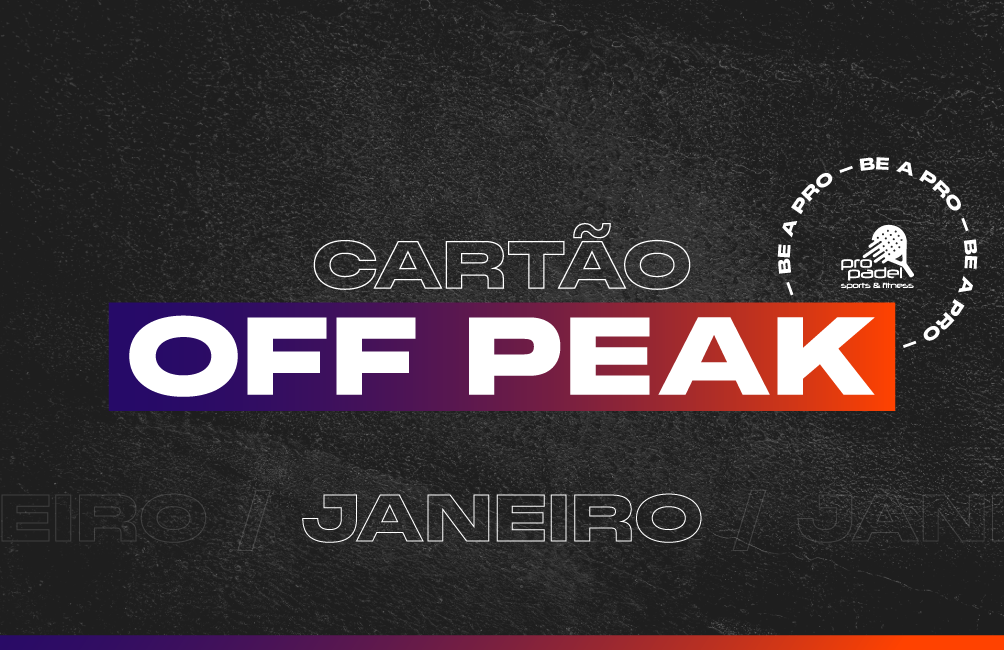
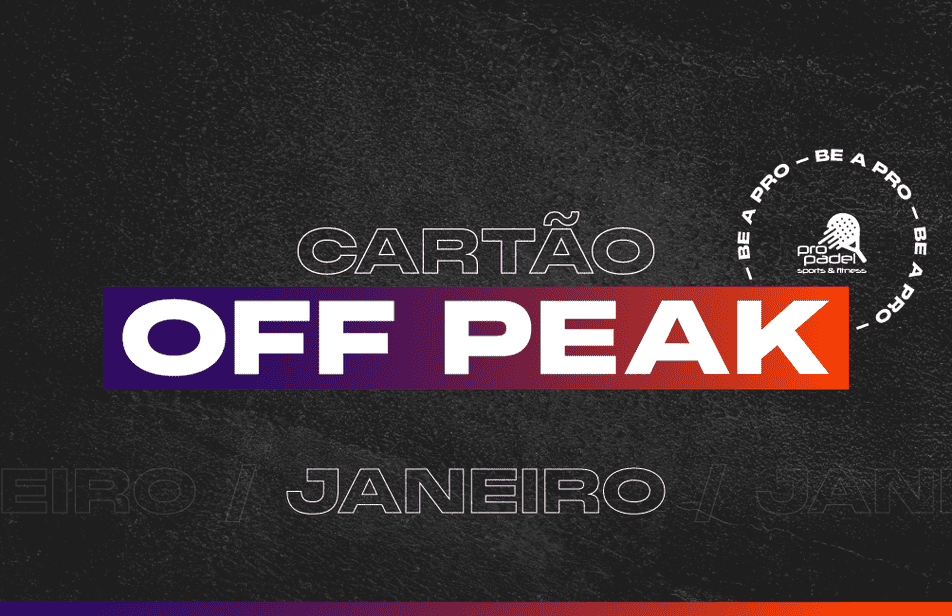
image reduce, sql and css fixes

diff --git a/client/src/app/(with-auth)/(players)/home/page.tsx b/client/src/app/(with-auth)/(players)/home/page.tsx
@@ -106,7 +106,7 @@ function Home() {
         </Button>
       </Card>
 
-      <Card shadow="sm" padding="lg" radius="md" mt={20} withBorder p={20} /* className={classes.cardimagem} */>
+      <Card shadow="sm" padding="lg" radius="md" mt={20} withBorder p={20}>
         <Title className={classes.titleversion2} ta="center" mb={30}>
           <span className={classes.outline}>CARTÃO</span> <br />
           <span className={classes.highlight}>JOGOS</span>

diff --git a/client/src/components/footer/mobile.tsx b/client/src/components/footer/mobile.tsx
@@ -18,7 +18,7 @@ const mockdata = [
   {
     icon: IconSquareRoundedNumber2,
     title: "Pro Padel - Lamas",
-    description: "Brevemente",
+    description: "Travessa da Salgueirinha, Nº 64, 4535-416 St. M. de Lamas",
     href: "https://playtomic.io/propadel/218f0732-34ed-48c1-a6bc-0d4edad92da8",
   },
 ];

diff --git a/client/src/components/header/index.tsx b/client/src/components/header/index.tsx
@@ -64,7 +64,7 @@ const mockdata = [
   {
     icon: IconSquareRoundedNumber2,
     title: "Pro Padel - Lamas",
-    description: "Brevemente",
+    description: "Travessa da Salgueirinha, Nº 64, 4535-416 St. M. de Lamas",
     href: "https://playtomic.io/propadel/218f0732-34ed-48c1-a6bc-0d4edad92da8",
   },
 ];

diff --git a/client/src/app/(with-auth)/(players)/home/classes.module.css b/client/src/app/(with-auth)/(players)/home/classes.module.css
@@ -16,12 +16,6 @@
   margin-left: 25%;
 }
 
-.cardimagem{
-  background-size: cover;
-  background-position: center;
-  background-image: url('/grunge-black-concrete-textured-background.jpg');
-}
-
 .titleversion2{
   line-height: 1.2;
   font-weight: 900;

diff --git a/client/src/components/sidebar/NavbarSimpleColored.module.css b/client/src/components/sidebar/NavbarSimpleColored.module.css
@@ -7,8 +7,12 @@
   background-color: var(--mantine-color-blue-filled);
 }
 
-.navbarMain {
+.navbarMain { 
   flex: 1;
+  @media (max-width: 481px) {
+    flex: 0;
+    margin-bottom: 0.5rem;
+  }
 }
 
 .header {
